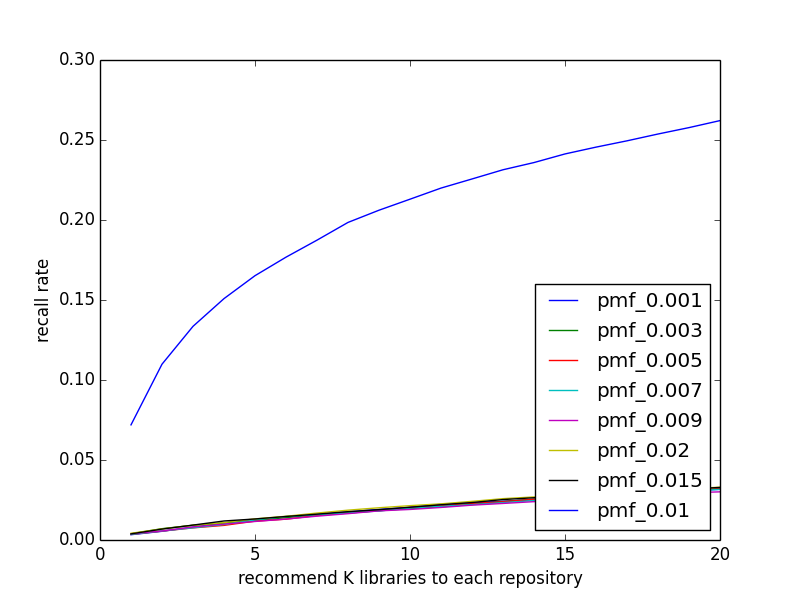
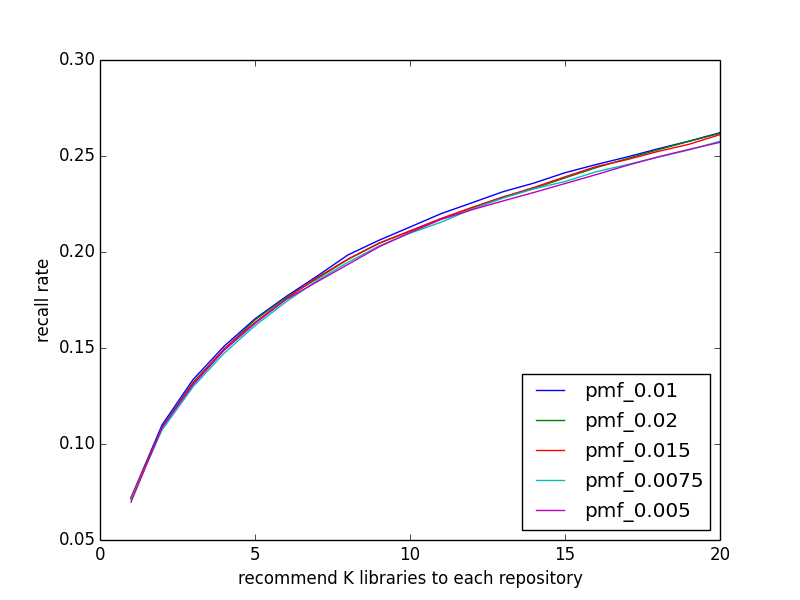
Andy

diff --git a/model/model_evaluation.py b/model/model_evaluation.py
@@ -61,17 +61,17 @@ if __name__ == "__main__":
 	recall_top20 = recall_top(top_20, test_data)
 	recall_user_based_CF = recall_CF(top_20, test_data, "recommendation_result_user_based_CF.txt")
 	recall_item_based_CF = recall_CF(top_20, test_data, "recommendation_result_item_based_CF.txt")
-<<<<<<< HEAD
 	recall_user_based_CF1 = recall_CF(top_20, test_data, "result/recommendation_result_user_based_CF_topic30.txt")
 	#recall_user_based_CF2 = recall_CF(top_20, test_data, "recommendation_result_user_based_CF_topic10_0.01.txt")
-	recall_pmf = recall_CF(top_20, test_data, "../MF_model/recommendation_result_pmf.txt")
-	recall_ctr = recall_CF(top_20, test_data, "../MF_model/recommendation_result_ctrsimple_100.txt")
+	recall_pmf = recall_CF(top_20, test_data, "../PMF_model/recommendation_result_pmf.txt")
+	recall_ctr = recall_CF(top_20, test_data, "../PMF_model/recommendation_result_ctrsimple_100.txt")
     	recall_ctr_v1 = recall_CF(top_20, test_data, "../Embedding/recommendation_result_ctrsimple_100_v1.txt")
     	recall_ctr_v2 = recall_CF(top_20, test_data, "../Embedding/recommendation_result_ctrsimple_100_v2.txt")
     	recall_ctr_v12 = recall_CF(top_20, test_data, "../Embedding/recommendation_result_ctrsimple_100_v12.txt")
         recall_ctr_v1_ = recall_CF(top_20, test_data, "../Embedding/recommendation_result_ctrsimple_100_v1_.txt")
         recall_ctr_v2_ = recall_CF(top_20, test_data, "../Embedding/recommendation_result_ctrsimple_100_v2_.txt")
         recall_ctr_v12_ = recall_CF(top_20, test_data, "../Embedding/recommendation_result_ctrsimple_100_v12_.txt")
+	recall_ctr_package = recall_CF(top_20, test_data, "../Embedding/recommendation_result_ctrsimple_100_v1package_.txt")
 
 	for i in range(0, 20):
 		recall_pmf[i] = float(recall_pmf[i]) / float(total_number)
@@ -82,21 +82,16 @@ if __name__ == "__main__":
 	        recall_ctr_v1_[i] = float(recall_ctr_v1_[i]) / float(total_number)
                 recall_ctr_v2_[i] = float(recall_ctr_v2_[i]) / float(total_number)
                 recall_ctr_v12_[i] = float(recall_ctr_v12_[i]) / float(total_number)
-=======
-	recall_user_based_CF1 = recall_CF(top_20, test_data, "recommendation_result_user_based_CF_topic30.txt")
-	recall_user_based_CF2 = recall_CF(top_20, test_data, "recommendation_result_user_based_CF_topic10_0.01.txt")
-
-	for i in range(0, 20):
->>>>>>> parent of 1066131... Ctr
-		recall_user_based_CF[i] = float(recall_user_based_CF[i]) / float(total_number)
+		recall_user_based_CF[i] = float(recall_user_based_CF[i]) /float(total_number)
 		recall_user_based_CF1[i] = float(recall_user_based_CF1[i]) / float(total_number)
-		recall_user_based_CF2[i] = float(recall_user_based_CF2[i]) / float(total_number)
+		#recall_user_based_CF2[i] = float(recall_user_based_CF2[i]) / float(total_number)
 		recall_item_based_CF[i] = float(recall_item_based_CF[i]) / float(total_number)
 		recall_top20[i] = float(recall_top20[i]) / float(total_number)	
+		recall_ctr_package[i] = float(recall_ctr_package[i]) /float(total_number)
+	
 	x = range(1, 21)
 	pl.plot(x, recall_top20, label = "most_popular(benchmark)")
 	pl.plot(x, recall_user_based_CF, label = "user_based_CF")
-<<<<<<< HEAD
 	#pl.plot(x, recall_user_based_CF1, label = "user_based_CF_topic_similar")
 	#pl.plot(x, recall_user_based_CF2, label = "user_based_CF+description_similarity")
 	pl.plot(x, recall_item_based_CF, label = "item_based_CF")
@@ -104,15 +99,12 @@ if __name__ == "__main__":
     	pl.plot(x, recall_ctr, label = "ctr")
         #pl.plot(x, recall_ctr_v1, label = "embedding_v1")
         #pl.plot(x, recall_ctr_v2, label = "embedding_v2")
-        pl.plot(x, recall_ctr_v12, label = "embedding_repo")
+        #pl.plot(x, recall_ctr_v12, label = "embedding_repo")
 	#pl.plot(x, recall_ctr_v1_, label = "embedding_v1_")
         #pl.plot(x, recall_ctr_v2_, label = "embedding_v2_")
         pl.plot(x, recall_ctr_v12_, label = "embedding_contibutors")
-=======
-	pl.plot(x, recall_user_based_CF1, label = "description_similarity")
-	pl.plot(x, recall_user_based_CF2, label = "user_based_CF+description_similarity")
-	pl.plot(x, recall_item_based_CF, label = "item_based_CF")
->>>>>>> parent of 1066131... Ctr
+	pl.plot(x, recall_ctr_package, label = "embedding_package")	
+
 	pl.ylabel('recall rate')
 	pl.xlabel('recommend K libraries to each repository')
 	pl.legend(loc='lower right')

diff --git a/Embedding/model_evaluation.py b/Embedding/model_evaluation.py
@@ -59,22 +59,28 @@ if __name__ == "__main__":
 	top_20 = get_top20("../model/top-20.txt")
 	total_number, test_data = get_test_data("../data/repo_package_test.txt")
 
-	recall_pmf = recall_CF(top_20, test_data, "recommendation_result_pmf.txt")
-	recall_ctr_10 = recall_CF(top_20, test_data, "recommendation_result_ctrsimple_10.txt")
-	recall_ctr_100 = recall_CF(top_20, test_data, "recommendation_result_ctrsimple_100.txt")
-	recall_ctr_1000 = recall_CF(top_20, test_data, "recommendation_result_ctrsimple_1000.txt")
+	recall_ctr_package_v1 = recall_CF(top_20, test_data, "recommendation_result_ctrsimple_100_v1package_.txt")
+	recall_ctr_package_v2 = recall_CF(top_20, test_data, "recommendation_result_ctrsimple_100_v2package_.txt")
+    	recall_ctr_package_v12 = recall_CF(top_20, test_data, "recommendation_result_ctrsimple_100_v12package_.txt")
+	recall_ctr_repo_v1 = recall_CF(top_20, test_data, "recommendation_result_ctrsimple_100_v1package.txt")
+    	recall_ctr_repo_v2 = recall_CF(top_20, test_data, "recommendation_result_ctrsimple_100_v2package.txt")
+    	recall_ctr_repo_v12 = recall_CF(top_20, test_data, "recommendation_result_ctrsimple_100_v12package.txt")
 
 	for i in range(0, 20):
-		recall_pmf[i] = float(recall_pmf[i]) / float(total_number)
-		recall_ctr_10[i] = float(recall_ctr_10[i]) / float(total_number)
-		recall_ctr_100[i] = float(recall_ctr_100[i]) / float(total_number)
-		recall_ctr_1000 [i] = float(recall_ctr_1000[i]) / float(total_number)
+		recall_ctr_package_v1[i] = float(recall_ctr_package_v1[i]) / float(total_number)
+        	recall_ctr_package_v2[i] = float(recall_ctr_package_v2[i]) / float(total_number)
+        	recall_ctr_package_v12[i] = float(recall_ctr_package_v12[i]) / float(total_number)
+        	recall_ctr_repo_v1[i] = float(recall_ctr_repo_v1[i]) / float(total_number)
+        	recall_ctr_repo_v2[i] = float(recall_ctr_repo_v2[i]) / float(total_number)
+        	recall_ctr_repo_v12[i] = float(recall_ctr_repo_v12[i]) / float(total_number)
 
 	x = range(1, 21)
-	pl.plot(x, recall_pmf, label = "pmf")
-	pl.plot(x, recall_ctr_10, label = "ctr_10")
-	pl.plot(x, recall_ctr_100, label = "ctr_100")
-	pl.plot(x, recall_ctr_1000, label = "ctr_1000")
+	pl.plot(x, recall_ctr_package_v1, label = "ctr_package_v1")
+ 	pl.plot(x, recall_ctr_package_v2, label = "ctr_package_v2")
+	pl.plot(x, recall_ctr_package_v12, label = "ctr_package_v12")
+	pl.plot(x, recall_ctr_repo_v1, label = "ctr_repo_v1")
+    	pl.plot(x, recall_ctr_repo_v2, label = "ctr_repo_v2")
+	pl.plot(x, recall_ctr_repo_v12, label = "ctr_repo_v12")
 
 	pl.ylabel('recall rate')
 	pl.xlabel('recommend K libraries to each repository')

diff --git a/Andy/lda_model.py b/Andy/lda_model.py
@@ -1,0 +1,76 @@
+import lda
+import numpy
+import sklearn.metrics.pairwise as pairwise
+from sets import Set
+from nltk.tokenize import RegexpTokenizer
+from stop_words import get_stop_words
+from nltk.stem.porter import PorterStemmer
+import matplotlib.pyplot as plt
+
+def read_dict(filename):
+	reader = open(filename, "rb")
+        dict_ = dict()
+	for line in reader:
+		line = line.strip('\n').split('\t')
+		if line[0] == "repo_num" or line[0] == "package_num":
+			continue
+		dict_[line[1]] = line[0]
+	print len(dict_)
+	return dict_
+
+def repo_description(repo_dict):
+	tokenizer = RegexpTokenizer(r'\w+')
+        en_stop = get_stop_words('en')
+        p_stemmer = PorterStemmer()
+
+	vocal = dict()
+	description_dict = dict()
+
+	reader = open("../data/github_java_repo.txt", "rb")
+	for line in reader:
+		line = line.strip('\t\n').split('\t')
+		if repo_dict.has_key(line[0]):
+			text = '\t'.join(line[3:])
+			raw = text.lower()
+			tokens = tokenizer.tokenize(raw)
+			stopped_tokens = [i for i in tokens if not i in en_stop]
+        		texts = [p_stemmer.stem(i) for i in stopped_tokens]
+
+			for voc in texts:
+				if voc not in vocal:
+					vocal[voc] = len(vocal)
+
+			description_dict[repo_dict[line[0]]] = Set(texts)
+	print len(description_dict), len(vocal)
+	return description_dict, vocal
+
+def generate_matrix(description_dict, vocal):
+	X = numpy.full((len(description_dict), len(vocal)), 0, dtype=numpy.int)
+	print X.shape
+	for repo_num in description_dict:
+		for word in description_dict[repo_num]:
+			X[int(repo_num) - 1][vocal[word]] += 1
+	return X
+
+
+def lda_model(n = 20):
+	repo_dict = read_dict("../data/repo_dict.txt")
+	description_dict, vocal = repo_description(repo_dict)
+
+	X = generate_matrix(description_dict, vocal)
+
+	model = lda.LDA(n_topics = n, n_iter = 1500, random_state = 1)
+	model.fit(X)
+	doc_topic = model.doc_topic_
+    	return doc_topic
+
+if __name__ == "__main__":
+	a = description_similarity(30)
+	b = []
+	for i in range(0, len(a)-1):
+		c = a[i][i+1:]
+		b += c.tolist()
+	b = numpy.array(b)
+	print b.shape
+	plt.hist(b)
+	plt.savefig("hist.png")

diff --git a/PMF_model/model_evaluation.py b/PMF_model/model_evaluation.py
@@ -60,21 +60,24 @@ if __name__ == "__main__":
 	total_number, test_data = get_test_data("../data/repo_package_test.txt")
 
 	recall_pmf = recall_CF(top_20, test_data, "recommendation_result_pmf.txt")
-	recall_ctr_10 = recall_CF(top_20, test_data, "recommendation_result_ctrsimple_10.txt")
-	recall_ctr_100 = recall_CF(top_20, test_data, "recommendation_result_ctrsimple_100.txt")
-	recall_ctr_1000 = recall_CF(top_20, test_data, "recommendation_result_ctrsimple_1000.txt")
+	recall_pmf1 = recall_CF(top_20, test_data, "recommendation_result_pmf_0.02.txt")
+	recall_pmf2 = recall_CF(top_20, test_data, "recommendation_result_pmf_0.015.txt")
+	recall_pmf3 = recall_CF(top_20, test_data, "recommendation_result_pmf_0.0075.txt")
+	recall_pmf4 = recall_CF(top_20, test_data, "recommendation_result_pmf_0.005.txt")
 
 	for i in range(0, 20):
 		recall_pmf[i] = float(recall_pmf[i]) / float(total_number)
-		recall_ctr_10[i] = float(recall_ctr_10[i]) / float(total_number)
-		recall_ctr_100[i] = float(recall_ctr_100[i]) / float(total_number)
-		recall_ctr_1000 [i] = float(recall_ctr_1000[i]) / float(total_number)
+		recall_pmf1[i] = float(recall_pmf1[i]) / float(total_number)
+		recall_pmf2[i] = float(recall_pmf2[i]) / float(total_number)
+		recall_pmf3[i] = float(recall_pmf3[i]) / float(total_number)
+		recall_pmf4[i] = float(recall_pmf4[i]) / float(total_number)
 
 	x = range(1, 21)
-	pl.plot(x, recall_pmf, label = "pmf")
-	pl.plot(x, recall_ctr_10, label = "ctr_10")
-	pl.plot(x, recall_ctr_100, label = "ctr_100")
-	pl.plot(x, recall_ctr_1000, label = "ctr_1000")
+	pl.plot(x, recall_pmf, label = "pmf_0.01")
+	pl.plot(x, recall_pmf1, label = "pmf_0.02")
+	pl.plot(x, recall_pmf2, label = "pmf_0.015")
+	pl.plot(x, recall_pmf3, label = "pmf_0.0075")
+	pl.plot(x, recall_pmf4, label = "pmf_0.005")
 
 	pl.ylabel('recall rate')
 	pl.xlabel('recommend K libraries to each repository')

diff --git a/PMF_model/common_function.py b/PMF_model/common_function.py
@@ -21,13 +21,20 @@ def read_user_item_dict(filename):
                 item_set.add(item_index)
         return user_item_dict, len(user_set), len(item_set)
 
-def write_recommendation_result(filename, top_20_items, repo_id_name_dict, package_id_name_dict):
+def write_recommendation_result(filename, top_20_items, repo_id_name_dict, package_id_name_dict, ratings):
 	writer = open(filename, "wb")
 	for user_index in xrange(len(top_20_items)):
 		writer.write(repo_id_name_dict[user_index])
+        	ratings_set = Set(ratings[user_index])
+        	count = 0
 		for i in xrange(len(top_20_items[user_index])):
-			writer.write('\t')
-			writer.write(package_id_name_dict[top_20_items[user_index][i]])
+            		if top_20_items[user_index][i] in ratings_set:
+                		continue
+	    		writer.write('\t')
+	    		writer.write(package_id_name_dict[top_20_items[user_index][i]])
+            		count += 1
+            		if count >= 20:
+                		break
 		writer.write('\n')
 	writer.close()
 

diff --git a/Andy/ctr_exp_embedding_v12_.py b/Andy/ctr_exp_embedding_v12_.py
@@ -1,4 +1,4 @@
-import ctr_simple
+import ctr_simple_network
 import numpy
 import common_function
 
@@ -7,6 +7,6 @@ if __name__ == "__main__":
 	doc_ids, doc_cnt, voc_num =  common_function.repo_description(common_function.read_dict_("../data/repo_dict.txt"))
 	repo_id_name_dict = common_function.read_dict("../data/repo_dict.txt")
         package_id_name_dict = common_function.read_dict("../data/package_dict.txt")
-	vector_repo = common_function.read_vector2("vec_2nd_package.txt")
-	model = ctr_simple.CTR(user_num, item_num, user_item_dict, repo_id_name_dict, package_id_name_dict, vector_repo, "recommendation_result_ctrsimple_100_v2package_.txt")
+	vector_repo = common_function.read_vector1("../Embedding/vec_all.txt")
+	model = ctr_simple_network.CTR(user_num, item_num, user_item_dict, repo_id_name_dict, package_id_name_dict, vector_repo, "recommendation_result_ctrsimple_100_v12package_.txt")
 	model.fit()

diff --git a/Embedding/ctr_exp_v12_.py b/Embedding/ctr_exp_v12_.py
@@ -7,6 +7,6 @@ if __name__ == "__main__":
 	doc_ids, doc_cnt, voc_num =  common_function.repo_description(common_function.read_dict_("../data/repo_dict.txt"))
 	repo_id_name_dict = common_function.read_dict("../data/repo_dict.txt")
         package_id_name_dict = common_function.read_dict("../data/package_dict.txt")
-	vector_repo = common_function.read_vector1("vec_all.txt")
-	model = ctr_simple.CTR(user_num, item_num, user_item_dict, repo_id_name_dict, package_id_name_dict, vector_repo, "recommendation_result_ctrsimple_100_v12_.txt")
+	vector_repo = common_function.read_vector2("vec_all_package.txt")
+	model = ctr_simple.CTR(user_num, item_num, user_item_dict, repo_id_name_dict, package_id_name_dict, vector_repo, "recommendation_result_ctrsimple_100_v12package_.txt")
 	model.fit()

diff --git a/Embedding/ctr_exp_v1_.py b/Embedding/ctr_exp_v1_.py
@@ -7,6 +7,6 @@ if __name__ == "__main__":
 	doc_ids, doc_cnt, voc_num =  common_function.repo_description(common_function.read_dict_("../data/repo_dict.txt"))
 	repo_id_name_dict = common_function.read_dict("../data/repo_dict.txt")
         package_id_name_dict = common_function.read_dict("../data/package_dict.txt")
-	vector_repo = common_function.read_vector1("vec_1st.txt")
-	model = ctr_simple.CTR(user_num, item_num, user_item_dict, repo_id_name_dict, package_id_name_dict, vector_repo, "recommendation_result_ctrsimple_100_v1_.txt")
+	vector_repo = common_function.read_vector2("vec_1st_package.txt")
+	model = ctr_simple.CTR(user_num, item_num, user_item_dict, repo_id_name_dict, package_id_name_dict, vector_repo, "recommendation_result_ctrsimple_100_v1package_.txt")
 	model.fit()

diff --git a/Embedding/ctr_exp_v12.py b/Embedding/ctr_exp_v12.py
@@ -7,6 +7,6 @@ if __name__ == "__main__":
 	doc_ids, doc_cnt, voc_num =  common_function.repo_description(common_function.read_dict_("../data/repo_dict.txt"))
 	repo_id_name_dict = common_function.read_dict("../data/repo_dict.txt")
         package_id_name_dict = common_function.read_dict("../data/package_dict.txt")
-	vector_repo = common_function.read_vector("vec_all.txt")
-	model = ctr_simple.CTR(user_num, item_num, user_item_dict, repo_id_name_dict, package_id_name_dict, vector_repo, "recommendation_result_ctrsimple_100_v12.txt")
+	vector_repo = common_function.read_vector("vec_all_package.txt")
+	model = ctr_simple.CTR(user_num, item_num, user_item_dict, repo_id_name_dict, package_id_name_dict, vector_repo, "recommendation_result_ctrsimple_100_v12package.txt")
 	model.fit()

diff --git a/Embedding/ctr_exp_v1.py b/Embedding/ctr_exp_v1.py
@@ -7,6 +7,6 @@ if __name__ == "__main__":
 	doc_ids, doc_cnt, voc_num =  common_function.repo_description(common_function.read_dict_("../data/repo_dict.txt"))
 	repo_id_name_dict = common_function.read_dict("../data/repo_dict.txt")
         package_id_name_dict = common_function.read_dict("../data/package_dict.txt")
-	vector_repo = common_function.read_vector("vec_1st.txt")
-	model = ctr_simple.CTR(user_num, item_num, user_item_dict, repo_id_name_dict, package_id_name_dict, vector_repo, "recommendation_result_ctrsimple_100_v1.txt")
+	vector_repo = common_function.read_vector("vec_1st_package.txt")
+	model = ctr_simple.CTR(user_num, item_num, user_item_dict, repo_id_name_dict, package_id_name_dict, vector_repo, "recommendation_result_ctrsimple_100_v1package.txt")
 	model.fit()

diff --git a/Embedding/ctr_exp_v2.py b/Embedding/ctr_exp_v2.py
@@ -7,6 +7,6 @@ if __name__ == "__main__":
 	doc_ids, doc_cnt, voc_num =  common_function.repo_description(common_function.read_dict_("../data/repo_dict.txt"))
 	repo_id_name_dict = common_function.read_dict("../data/repo_dict.txt")
         package_id_name_dict = common_function.read_dict("../data/package_dict.txt")
-	vector_repo = common_function.read_vector("vec_2nd.txt")
-	model = ctr_simple.CTR(user_num, item_num, user_item_dict, repo_id_name_dict, package_id_name_dict, vector_repo, "recommendation_result_ctrsimple_100_v2.txt")
+	vector_repo = common_function.read_vector("vec_2nd_package.txt")
+	model = ctr_simple.CTR(user_num, item_num, user_item_dict, repo_id_name_dict, package_id_name_dict, vector_repo, "recommendation_result_ctrsimple_100_v2package.txt")
 	model.fit()

diff --git a/Andy/ctr_exp_simple_.py b/Andy/ctr_exp_simple_.py
@@ -7,6 +7,5 @@ if __name__ == "__main__":
 	doc_ids, doc_cnt, voc_num =  common_function.repo_description(common_function.read_dict_("../data/repo_dict.txt"))
 	repo_id_name_dict = common_function.read_dict("../data/repo_dict.txt")
         package_id_name_dict = common_function.read_dict("../data/package_dict.txt")
-	vector_repo = common_function.read_vector2("vec_2nd_package.txt")
-	model = ctr_simple.CTR(user_num, item_num, user_item_dict, repo_id_name_dict, package_id_name_dict, vector_repo, "recommendation_result_ctrsimple_100_v2package_.txt")
+	model = ctr_simple.CTR(user_num, item_num, user_item_dict, repo_id_name_dict, package_id_name_dict, "recommendation_result_ctrsimple_10.txt")
 	model.fit()
